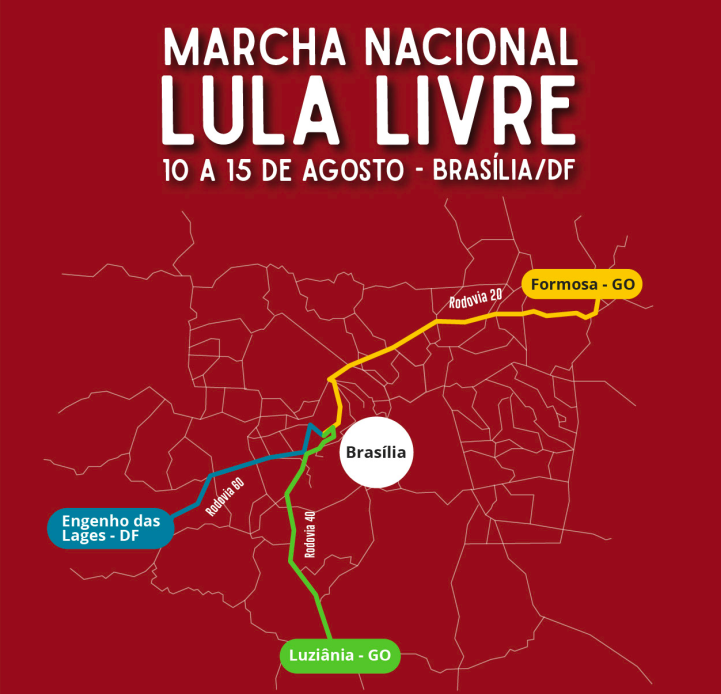
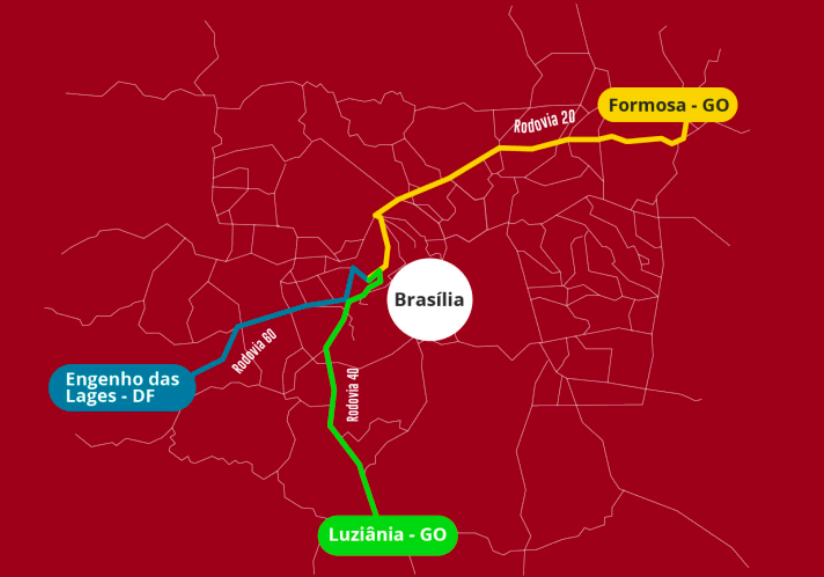
adds a brief description for regions; changes the main title position; adds 'leia mais' section;

diff --git a/_pages/marcha-nacional-lula-livre/index.html b/_pages/marcha-nacional-lula-livre/index.html
@@ -13,18 +13,17 @@ image_height: "338"
 
 <article role="main" class="main" itemscope itemtype="http://schema.org/Event">
   <section class="main__capa">
-    <figure class="capa__title">
-      <h2>marcha nacional</h2>
-      <h1>Lula livre</h1>
-      <h3>10 a 15 de Agosto</h3>
-      <h4>Brasilia/DF</h4>
-    </figure>
-    <section style="width: 100%; height: 60px; margin-bottom: 20px;">
+    <section style="width: 100%; height: 60px; margin-bottom: 30px;">
       <p style="color: #fff; text-shadow: -1px 3px 15px #000000;">Acompanhe a  Marcha Lula Livre pelas Rádios Brasil em Movimento e Brasil de Fato</p>
       <audio controls autoplay style="width: 100%;" name="media">
         <source src="https://s09.hstbr.net:8238/live?1514038524061" type="application/ogg">
       </audio>
     </section>
+    <figure class="capa__title">
+      <h1>marcha nacional lula livre</h1>
+      <h3>10 a 15 de Agosto</h3>
+      <h4>Brasilia/DF</h4>
+    </figure>
   </section>
   <section class="main__marcha">
     <h1 class="marcha__title">"Esse é o nosso país, essa é a nossa bandeira! É por amor a essa pátria Brasil, que a gente segue em fileira!"</h1>
@@ -53,18 +52,34 @@ image_height: "338"
   </section>
   <section class="marcha__album-de-fotos">
     <h1 class="header-title">
-      Galeria
+      Galeria de fotos
     </h1>
     <figure class="">
       <a data-flickr-embed="true" data-context="true"  href="https://www.flickr.com/photos/mstoficial/28988761907/in/album-72157672096435058/" title="Fotos: "><img src="https://farm1.staticflickr.com/855/28988761907_a60dd17210_z.jpg" width="640" height="427" alt="Fotos: Elitiel Guedes"></a><script async src="//embedr.flickr.com/assets/client-code.js" charset="utf-8"></script>
     </figure>
   </section>
   <section class="marcha__mapa">
-    <h1 class="header-title">
-      Mapa
-    </h1>
-    <figure class="marcha__imagem-mapa">
+    <div class="sobre_engenho_das_lages">
+      Coluna  Tereza de Benguela (Regiões Centro Oeste e Amazônica):
+Rememorando a luta quilombola de resistência contra o capital no campo, trazemos a Líder do Quilombo do Quariterê, em Mato Grosso, Tereza de Benguela como inspiração para seguirmos em marcha. Teresa desafiou a Coroa e o sistema escravocrata português por mais de 20 anos, comandando a maior comunidade de libertação de negros e indígenas da capitania de Mato Grosso. No Vale do Guaporé, coordenava a estrutura administrativa, econômica e política da comunidade, garantindo a segurança e a sobrevivência de mais de 100 pessoas, entre negros e indígenas. Em 2014, o 25 de julho foi instituído no Brasil como o Dia Nacional de Tereza de Benguela e da Mulher Negra.
+    </div>
+    <div class="sobre_luziania">
+      Coluna Prestes (Regiões Sul e Sudeste)
+      Inspirados na “Coluna Prestes”, como ficou conhecida a façanha comandada por Luiz Carlos Prestes, o cavaleiro da esperança, realizada entre os anos de 1924 e 1927. Aproximadamente mil e quinhentos homens e mulheres percorreram mais de vinte e cinco mil quilômetros pelo interior do Brasil, na “Grande Marcha”, cujo objetivo maior era o de percorrer o maior número de estados possível, engrossar fileiras, levar ao interior do país uma mensagem revolucionária, e denunciar o governo e o coronelismo.</div>
+    <div class="sobre_formosa">
+      Coluna Ligas Camponesas (Região Nordeste)
+      As Ligas Camponesas organizadas primeiramente no nordeste, ganharam força em 1954, no município de Vitória de Santo Antão, Pernambuco. Com o objetivo central de lutar por uma reforma agrária radical, com a real intenção de democratização da terra para a classe trabalhadora, as Ligas construíam ações de resistência na terra por meio de ocupações. Em 1962, as Ligas já estavam organizadas em 13 estados e realizavam encontros e congressos para debater a reforma agrária. Neste mesmo ano, sofrem uma intensa ofensiva, João Pedro  Teixeira, fundador da Liga de Sapé na Paraíba, a maior do país, é assassinado.  Dois anos depois, o   golpe   militar   de   1964,  aniquila as Ligas e outros movimentos populares.
+    </div>
+    <!-- <figure class="marcha__imagem-mapa">
       <img src="/assets/img/marcha-nacional-lula-livre/mapa-marcha-redes.png" alt="Mapa de redes" />
-    </figure>
+    </figure> -->
+  </section>
+
+  <section class="news">
+    <h1 class="title">
+      Leia Mais:
+    </h1>
+    <div class="js-carousel carousel">
+    </div>
   </section>
 </article>

diff --git a/assets/css/marcha-lula-livre.scss b/assets/css/marcha-lula-livre.scss
@@ -37,8 +37,6 @@ body {
   background-repeat: no-repeat;
   background-size: cover;
   display: flex;
-  justify-content: flex-end;
-  align-items: start;
   flex-direction: column;
   padding: 30px;
 }
@@ -70,7 +68,7 @@ body {
 .main__marcha {
   color: #fff;
   min-height:100vh;
-  text-align: start;
+  text-align: center;
   width: 100%;
   padding: 20px 30px;
   display: flex;
@@ -125,13 +123,55 @@ body {
 }
 
 .marcha__mapa {
-  background-color: #980a1b;
+  // display: flex;
+  background-color: #9f0019;
+  background-image: url('/assets/img/marcha-nacional-lula-livre/mapa-marcha-redes.png');
+  background-repeat: no-repeat;
+  background-position: center;
   color: #fff;
-  text-align: center;
+  height: 700px;
 
   .img {
     width: 60%;
   }
+
+  .sobre_engenho_das_lages {
+    background-color: #007aa2;
+    width: 200px;
+    height: 425px;
+    font-size: 11px;
+    float: left;
+    margin-left: 100px;
+    padding-left: 5px;
+  }
+
+  .sobre_luziania {
+    background-color: #fad300;
+    width: 200px;
+    height: 300px;
+    font-size: 11px;
+    float: right;
+    margin-right: 125px;
+    padding-left: 5px;
+  }
+
+  .sobre_formosa {
+    background-color: #00da08;
+    width: 500px;
+    height: 160px;
+    font-size: 11px;
+    float: right;
+    padding-left: 5px;
+
+    margin-top: 500px;
+    margin-right: -270px;
+  }
+}
+
+.news {
+  display: flex;
+  align-items: center;
+  justify-content: center;
 }
 
 .main__timeline {
